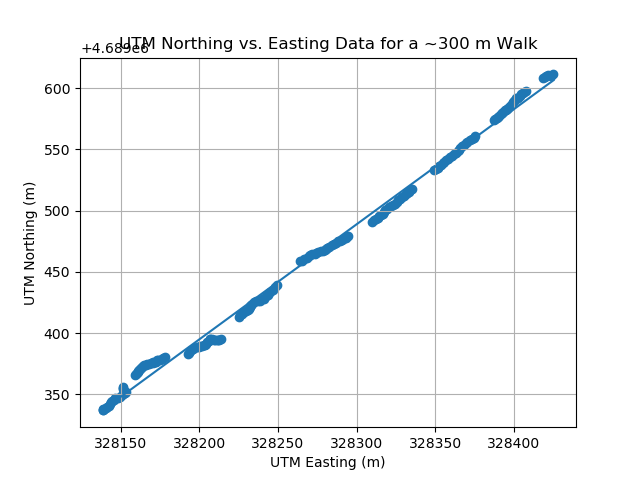
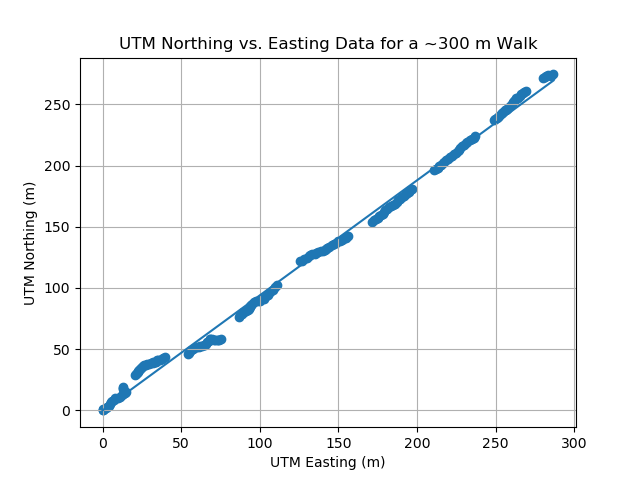
re-uploading all files with corrected analysis and driver

diff --git a/LAB1/Analysis/MattLuongo_GPSAnalysis_FixedData.py b/LAB1/Analysis/MattLuongo_GPSAnalysis_FixedData.py
@@ -120,8 +120,8 @@ walk_HDOP = numpy.zeros(len(walk_GPGGA_Data))
 walk_UTM_Northing = numpy.zeros(len(walk_GPGGA_Data))
 walk_UTM_Easting = numpy.zeros(len(walk_GPGGA_Data))
 
-# walk_UTM_N_Error = numpy.zeros(len(walk_GPGGA_Data))
-# walk_UTM_E_Error = numpy.zeros(len(walk_GPGGA_Data))
+walk_UTM_N_Scaled = numpy.zeros(len(walk_GPGGA_Data))
+walk_UTM_E_Scaled = numpy.zeros(len(walk_GPGGA_Data))
 
 while i < len(walk_GPGGA_Data):
     bufferline = walk_GPGGA_Data[i]
@@ -145,8 +145,8 @@ while i < len(walk_GPGGA_Data):
     walk_UTM_Northing[i] = utm_buffer[1]
     walk_UTM_Easting[i] = utm_buffer[0]
 
-    # walk_UTM_N_Corrected[i] = walk_UTM_Northing[i] - walk_Known_UTM[1]
-    # walk_UTM_E_Corrected[i] = walk_UTM_Easting[i] - walk_Known_UTM[0]
+    walk_UTM_N_Scaled[i] = walk_UTM_Northing[i] - walk_UTM_Northing[0]
+    walk_UTM_E_Scaled[i] = walk_UTM_Easting[i] - walk_UTM_Easting[0]
 
     i = i + 1
 
@@ -193,11 +193,12 @@ while i < len(alley_UTM_N_Error):
 
 [m, b] = np.polyfit(walk_UTM_Easting, walk_UTM_Northing, 1)
 walk_BestFit = np.polyval([m, b], walk_UTM_Easting)
+walk_BestFit_Scaled = numpy.asarray(walk_BestFit - walk_BestFit[0])
 
 i = 0
-walk_Error = numpy.zeros(len(walk_UTM_Northing))
-while i < len(walk_UTM_Northing):
-    walk_Error[i] = walk_UTM_Northing[i] - walk_BestFit[i]
+walk_Error = numpy.zeros(len(walk_UTM_N_Scaled))
+while i < len(walk_UTM_N_Scaled):
+    walk_Error[i] = walk_UTM_N_Scaled[i] - walk_BestFit_Scaled[i]
     i = i + 1
 
 open_AverageError = numpy.average(open_Error)
@@ -225,8 +226,8 @@ plt.ylabel('UTM Northing (m)')
 plt.savefig('/home/mattluongo/PycharmProjects/GPSDriverAnalysis/FixedAnalysis/Alley_UTM_NorthVsEast')
 
 plt.figure(3)
-plt.scatter(walk_UTM_Easting, walk_UTM_Northing)
-plt.plot(walk_UTM_Easting, walk_BestFit)
+plt.scatter(walk_UTM_E_Scaled, walk_UTM_N_Scaled)
+plt.plot(walk_UTM_E_Scaled, walk_BestFit_Scaled)
 plt.grid(True)
 plt.title('UTM Northing vs. Easting Data for a ~300 m Walk')
 plt.xlabel('UTM Easting (m)')
